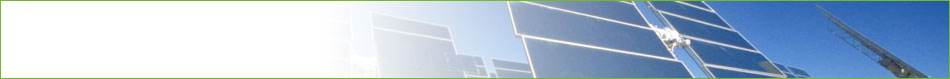
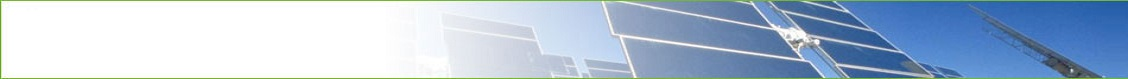
重新搞样式

Changed region(s): [[0.0, 0.962, 1.0, 1.0], [0.0, 0.0, 1.0, 0.0506]]

diff --git a/XPW/Content/Site.css b/XPW/Content/Site.css
@@ -13,8 +13,27 @@ body {
 }
 
 #container {
-    width: 950px;
+    width: 1128px;
     margin: 0 auto;
+}
+
+.titleBar {
+    width: 100%;
+    /*line-height: 22px;*/
+    text-align: right;
+    background: #e2e2e2;
+    background: rgba(226,226,226,1);
+}
+
+.nopadding {
+    padding: 0;
+}
+
+.subContainer {
+    border: 1px solid #a7a7a7;
+    border: 1px solid rgba(167,167,167,1);
+    padding: 7px;
+    margin: 3px 5px;
 }
 
 #header {
@@ -33,6 +52,7 @@ body {
 
 .subMenu {
     border: 1px solid rgb(202,207,218);
+    -ms-border-radius: 5px 5px 1px 1px;
     border-radius: 5px 5px 1px 1px;
     width: 290px;
     float: right;
@@ -68,10 +88,11 @@ body {
     background: rgb(98,174,16);
     line-height: 30px;
     border: 1px solid rgb(166,205,116);
+    -ms-border-radius: 0 0 5px 5px;
     border-radius: 0 0 5px 5px;
 }
 
-    .mainMenu ul {
+.mainMenu ul {
         margin: 0;
         padding: 0;
     }
@@ -86,34 +107,43 @@ body {
                 color: rgb(255,250,220);
                 font-weight: 600;
                 border-right: 2px solid rgb(123,192,50);
-                padding-left: 10px;
-                padding-right: 10px;
+                padding-left: 30px;
+                padding-right: 30px;
                 font-size: .85em;
             }
 
 #main-content {
-    padding-top: 20px;
+    /*padding-top: 20px;*/
+    /*-webkit-box-shadow:  2px 2px #c8c8c8;
+    -webkit-box-shadow:  2px 2px rgba(200,200,200,1);
+    -ms-box-shadow:  2px 2px #c8c8c8;
+    -ms-box-shadow:  2px 2px rgba(200,200,200,1);
+    box-shadow:  2px 2px #c8c8c8;
+    box-shadow:  2px 2px rgba(200,200,200,1)*/
 }
 
 .floatDiv {
     float: left;
+    width: 714px;
 }
 
 .leftWidth {
     width: 360px;
+    text-align: center;
 }
 
 .co2 {
-    background: url("../Images/co2.png") no-repeat;
+    background: url("../Images/co2.png") no-repeat center center;
     width: 360px;
-    height: 261px;
+    height: 263px;
 }
 
 table.energy {
-    width: 560px;
+    width: 100%;
     border: 1px solid rgb(205,233,175);
     border-collapse: collapse;
-    font-size: 90%;
+    font-size: .6em;
+    font-family: 微软雅黑, Arial,Verdana;
 }
 
     table.energy caption {
@@ -121,7 +151,6 @@ table.energy {
         background: rgb(146,208,80);
         line-height: 23px;
         font-weight: bold;
-        text-indent: 2em;
     }
 
     table.energy tr {
